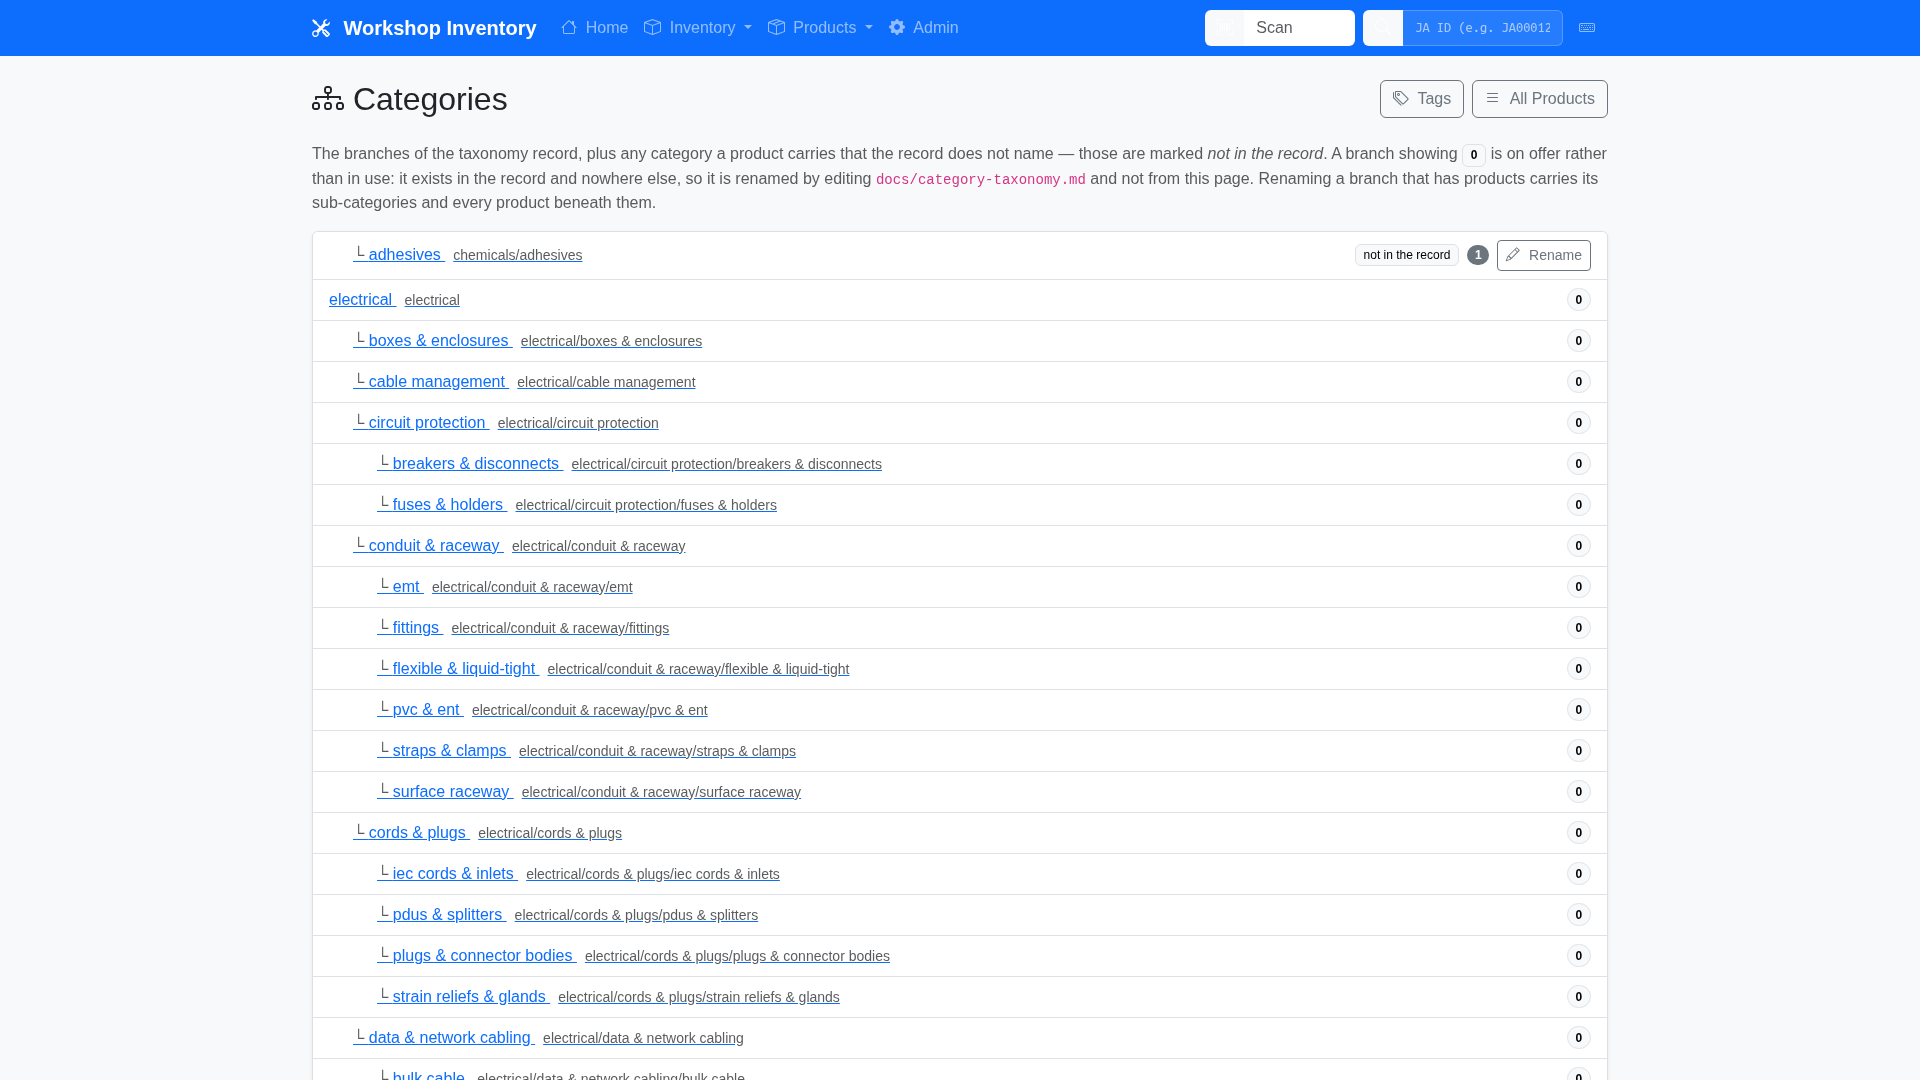
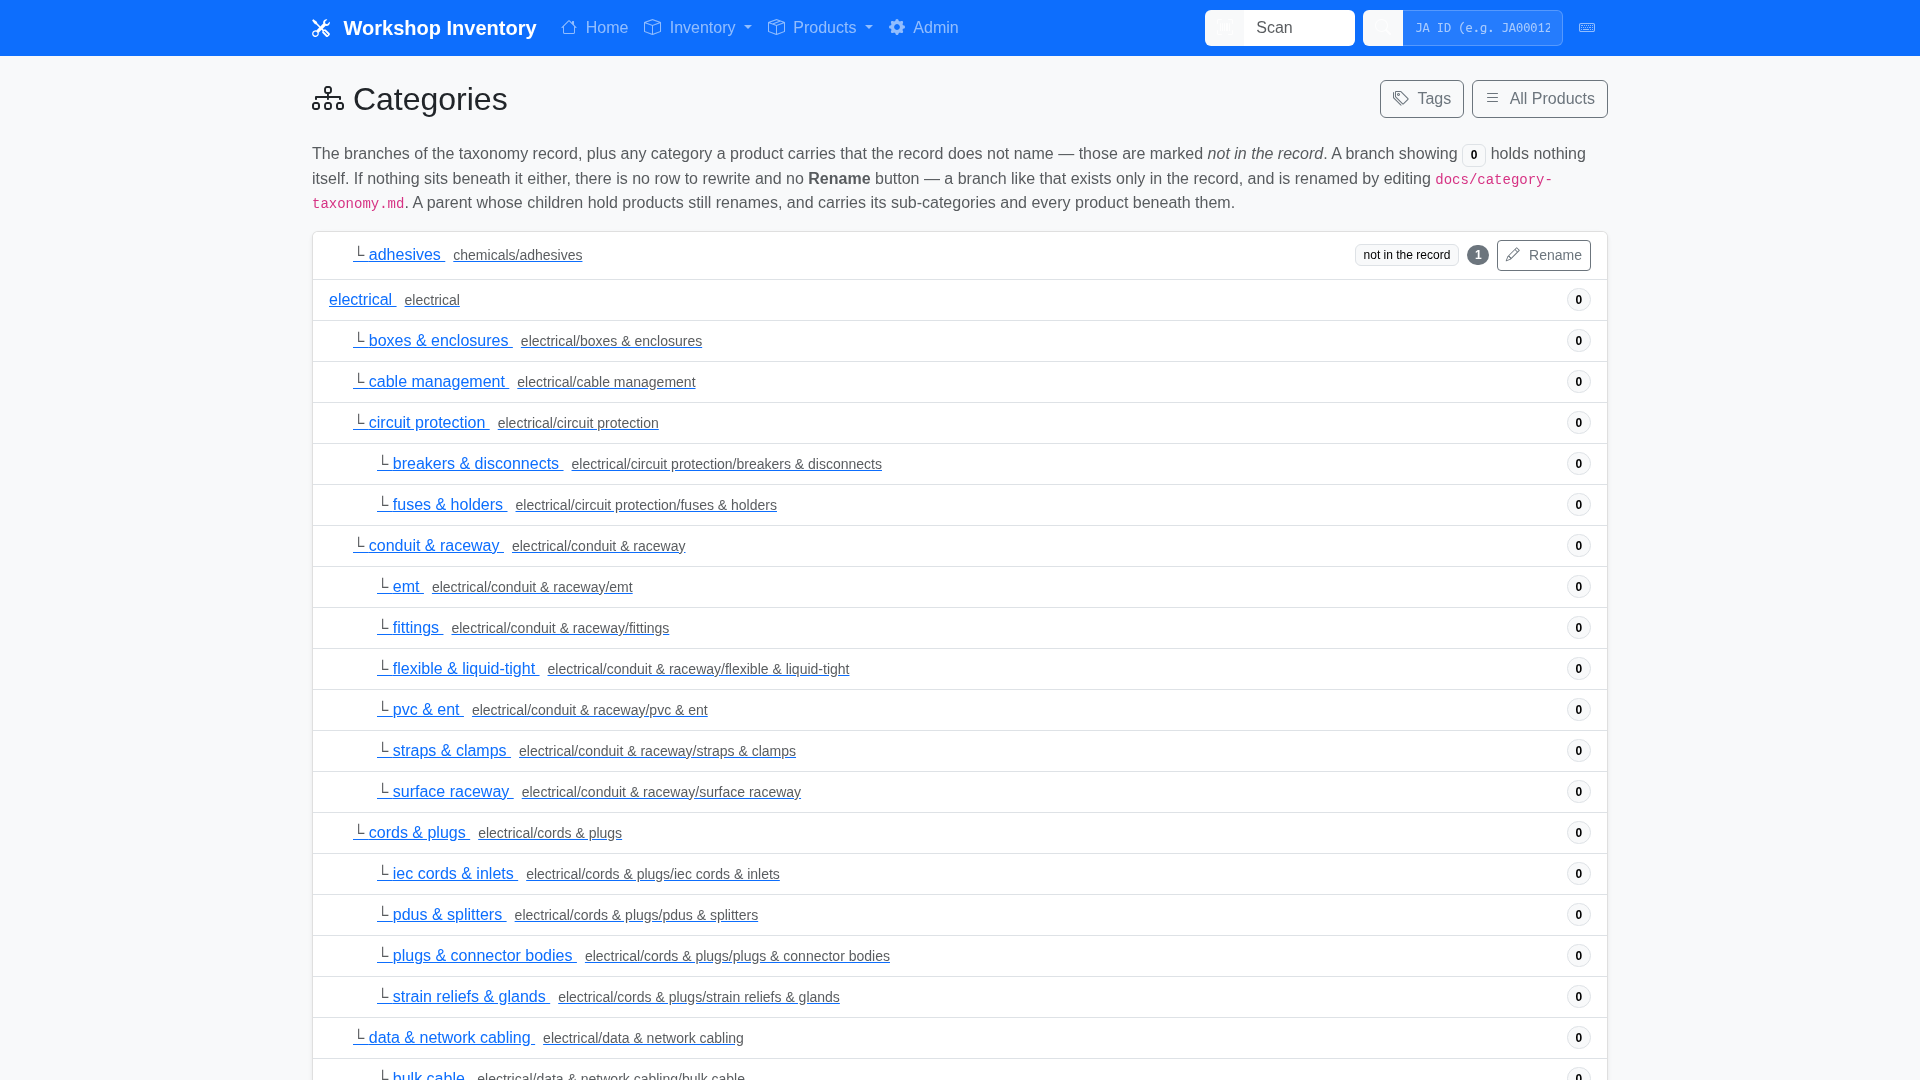
fix(catalog): gate the rename control on the subtree, not the direct count (#98)
Caught in review of #117, and worse than the last one: this removed a working
capability rather than merely mis-describing one.

category_tree's `count` is the number of products whose category_path equals
the row exactly. rename_category is not: it rewrites every product at or
under the path and refuses only when that whole set is empty. So a parent
holding nothing itself but with an occupied child renames perfectly well --
and gating the button on `count` hid it for exactly those rows.

That is the common case, not an edge. The taxonomy encourages filing at
third-level leaves, which leaves every parent above them at a direct count of
zero; 26 of the 142 shipped branches are parents with taxonomy children. One
product at electronics/dev boards/arduino made both `electronics` and
`electronics/dev boards` unrenameable through the UI.

category_tree now carries subtree_count alongside count, and the template
gates on that. The wrong rule had been written down in three more places --
the category_tree docstring, the prose on the page itself, and the user
manual, where it directly contradicted the paragraph above it about renames
carrying everything beneath them. All corrected, along with the state table
in data-model.md, which now distinguishes a parent with occupied children
from a branch with nothing anywhere beneath it.

Both e2e regression tests were run against the old gate first and both fail
there. Five unit tests cover the split: the rename that works, the tree
[…]

Changed region(s): [[0.1562, 0.1222, 0.8438, 0.2139]]

diff --git a/app/templates/product/categories.html b/app/templates/product/categories.html
@@ -16,10 +16,11 @@
 <p class="text-muted">
     The branches of the taxonomy record, plus any category a product carries that the
     record does not name &mdash; those are marked <em>not in the record</em>. A branch
-    showing <span class="badge text-bg-light border">0</span> is on offer rather than in
-    use: it exists in the record and nowhere else, so it is renamed by editing
-    <code>docs/category-taxonomy.md</code> and not from this page. Renaming a branch that
-    has products carries its sub-categories and every product beneath them.
+    showing <span class="badge text-bg-light border">0</span> holds nothing itself. If
+    nothing sits beneath it either, there is no row to rewrite and no <strong>Rename</strong>
+    button &mdash; a branch like that exists only in the record, and is renamed by editing
+    <code>docs/category-taxonomy.md</code>. A parent whose children hold products still
+    renames, and carries its sub-categories and every product beneath them.
 </p>
 
 <div class="card">
@@ -41,9 +42,11 @@
                 </span>
                 {% endif %}
                 <span class="badge {{ 'text-bg-secondary' if category.count else 'text-bg-light border' }} rounded-pill">{{ category.count }}</span>
-                {# rename_category rewrites rows, and a branch nobody occupies has none:
-                   offering the control there would be an action that cannot succeed. #}
-                {% if category.count %}
+                {# Gated on the subtree, not the direct count. rename_category
+                   rewrites every product at or under the path, so a parent
+                   holding nothing itself still renames and carries its children.
+                   Only a branch with an empty subtree has nothing to rewrite. #}
+                {% if category.subtree_count %}
                 <button type="button" class="btn btn-sm btn-outline-secondary rename-btn"
                         data-rename-value="{{ category.path }}"
                         data-rename-count="{{ category.count }}"

diff --git a/tests/e2e/test_category_taxonomy.py b/tests/e2e/test_category_taxonomy.py
@@ -180,3 +180,62 @@ def test_the_dialog_still_warns_about_a_real_collision(page, live_server):
 
     expect(impact).to_contain_text("1 product")
     expect(warning).to_contain_text("already exists")
+
+
+@pytest.mark.e2e
+def test_the_rename_control_follows_the_subtree_not_the_direct_count(page, live_server):
+    """The parent of an occupied leaf holds nothing itself and still renames.
+
+    `rename_category` rewrites everything at or under the path, so hiding the
+    control here would remove a working capability -- and it is the common
+    case, because the taxonomy encourages filing at the leaves.
+    """
+    live_server.add_test_products([
+        {'description': 'Arduino Uno R3', 'category_path': OCCUPIED},
+    ])
+
+    tree = open_categories(page, live_server.url)
+
+    for parent in ('electronics', 'electronics/dev boards'):
+        expect(row(tree, parent)).to_contain_text("0")
+        expect(row(tree, parent).locator(".rename-btn")).to_have_count(1)
+
+    # And a branch with nothing beneath it still has no control.
+    expect(row(tree, UNOCCUPIED).locator(".rename-btn")).to_have_count(0)
+
+
+@pytest.mark.e2e
+def test_renaming_a_parent_that_holds_nothing_directly_carries_its_child(
+    page, live_server
+):
+    """End to end: the control is offered and the rename actually works."""
+    live_server.add_test_products([
+        {'description': 'Arduino Uno R3', 'category_path': OCCUPIED},
+    ])
+
+    open_categories(page, live_server.url)
+    page.locator('.rename-btn[data-rename-value="electronics/dev boards"]').click()
+
+    impact = page.locator("#rename-impact")
+    expect(impact).to_be_visible()
+    expect(impact).to_contain_text("1 product")
+
+    page.locator("#rename-new-value").fill("electronics/sbc")
+    page.locator("#rename-submit").click()
+
+    tree = page.locator("#category-tree")
+
+    # The product moved, and its new home is outside the record -- which is
+    # what the mark is for.
+    moved = row(tree, "electronics/sbc/arduino")
+    expect(moved).to_have_count(1)
+    expect(moved.locator(".untaxonomied")).to_have_count(1)
+    expect(moved.locator(".rename-btn")).to_have_count(1)
+
+    # The old path does NOT disappear: the taxonomy still names it, so it stays
+    # on offer, now unoccupied and with nothing to rename. This is the drift a
+    # rename creates between the record and what products carry, and the page
+    # showing both halves of it is the point.
+    vacated = row(tree, OCCUPIED)
+    expect(vacated).to_have_count(1)
+    expect(vacated.locator(".rename-btn")).to_have_count(0)

diff --git a/tests/unit/test_product_search.py b/tests/unit/test_product_search.py
@@ -380,6 +380,45 @@ class TestCategoryListing:
         paths = {entry['path'] for entry in catalog.category_tree()}
         assert set(self.IN_USE) <= paths
 
+    def test_the_tree_carries_the_subtree_count_a_rename_would_move(self, service):
+        """025: `count` is this row's own; `subtree_count` is what renames.
+
+        The browse page gates its Rename control on the second, because the
+        first is 0 for a parent whose children hold everything -- and gating on
+        that hid the control for most of the parents the taxonomy adds.
+        """
+        service.create_product(
+            description='Uno', category_path='electronics/dev boards/arduino'
+        )
+
+        parent = self._entry(service, 'electronics/dev boards')
+        root = self._entry(service, 'electronics')
+        leaf = self._entry(service, 'electronics/dev boards/arduino')
+
+        assert (parent['count'], parent['subtree_count']) == (0, 1)
+        assert (root['count'], root['subtree_count']) == (0, 1)
+        assert (leaf['count'], leaf['subtree_count']) == (1, 1)
+
+    def test_an_empty_branch_has_an_empty_subtree(self, service):
+        """Nothing anywhere beneath it: no row to rewrite, no rename."""
+        entry = self._entry(service, 'fasteners/rivets')
+
+        assert (entry['count'], entry['subtree_count']) == (0, 0)
+
+    def test_the_subtree_count_respects_the_separator_boundary(self, service):
+        """`electronics-surplus` is a different category, not a descendant."""
+        service.create_product(description='x', category_path='electronics-surplus')
+
+        assert self._entry(service, 'electronics')['subtree_count'] == 0
+
+    def test_the_subtree_count_includes_paths_the_taxonomy_does_not_name(self, service):
+        """A typed child still makes its parent renameable."""
+        service.create_product(
+            description='x', category_path='electronics/dev boards/homebrew'
+        )
+
+        assert self._entry(service, 'electronics/dev boards')['subtree_count'] == 1
+
     @staticmethod
     def _entry(catalog, path):
         return next(e for e in catalog.category_tree() if e['path'] == path)

diff --git a/app/catalog_service.py b/app/catalog_service.py
@@ -2715,16 +2715,21 @@ class CatalogService:
         (025 FR-015), and the only thing that makes that divergence visible
         (025 FR-019).
 
-        A caller rendering a rename control must gate it on ``count``:
-        ``rename_category`` refuses a category no product carries, because a
-        rename is a rewrite across rows and there are none.
+        ``subtree_count`` is what a caller must gate a rename control on, and
+        it is deliberately not ``count``. ``rename_category`` rewrites every
+        product at *or under* the path and refuses only when that whole set is
+        empty -- so a parent branch holding nothing directly, with an occupied
+        child, renames perfectly well and carries the child with it. Gating on
+        ``count`` would hide the control for most of the parents a taxonomy
+        adds, because filing happens at the leaves.
 
         Args:
             None.
 
         Returns:
             One entry per category path: its path, its depth, its name, its
-            direct product count, and whether the taxonomy names it.
+            direct product count, the count at or under it, and whether the
+            taxonomy names it.
         """
         with self._session() as session:
             rows = session.query(
@@ -2736,12 +2741,20 @@ class CatalogService:
         counts = {path: count for path, count in rows}
         taxonomy = set(catalog_taxonomy.category_paths())
 
+        def subtree_total(path: str) -> int:
+            """Products at or under ``path`` -- the set a rename would move."""
+            return sum(
+                occupants for occupied, occupants in counts.items()
+                if category_utils.is_descendant(occupied, path)
+            )
+
         return [
             {
                 'path': path,
                 'depth': len(category_utils.segments(path)),
                 'name': category_utils.segments(path)[-1],
                 'count': counts.get(path, 0),
+                'subtree_count': subtree_total(path),
                 'in_taxonomy': path in taxonomy,
             }
             for path in sorted(set(counts) | taxonomy)

diff --git a/tests/unit/test_catalog_service.py b/tests/unit/test_catalog_service.py
@@ -428,6 +428,23 @@ class TestRenameCategoryRefusals:
         assert 'no category' in str(excinfo.value.message).lower()
         assert _paths(tree) == self._unchanged(tree)
 
+    def test_a_parent_holding_nothing_directly_still_renames(self, service):
+        """025: the case the browse page's gate originally got wrong.
+
+        ``rename_category`` rewrites every product at or under the path and
+        refuses only when that whole set is empty. A parent with an occupied
+        child holds nothing itself and renames perfectly well -- which is most
+        of the parents a taxonomy adds, because filing happens at the leaves.
+        """
+        service.create_product(
+            description='Uno', category_path='electronics/dev boards/arduino'
+        )
+
+        report = service.rename_category('electronics/dev boards', 'electronics/sbc')
+
+        assert report['products'] == 1
+        assert _paths(service) == {'Uno': 'electronics/sbc/arduino'}
+
     def test_blank_source_is_refused(self, tree):
         with pytest.raises(ValidationError) as excinfo:
             tree.rename_category('  ', 'electronics')

diff --git a/specs/025-category-taxonomy/data-model.md b/specs/025-category-taxonomy/data-model.md
@@ -63,16 +63,23 @@ field:
 | `depth` | `int` | Number of segments, 1–3. | — |
 | `name` | `str` | Last segment. | — |
 | `count` | `int` | Products filed **directly** in this path. | Now `0` for a branch on offer that nobody occupies. Previously an entry could not exist with a count of 0. |
-| `in_taxonomy` | `bool` | Whether `path` is in `CATEGORY_PATHS`. | **New.** |
+| `subtree_count` | `int` | Products at **or under** this path — the set a rename would move. | **New.** |
+| `in_taxonomy` | `bool` | Whether `path` is in the deployment's vocabulary. | **New.** |
 
-The four states an entry can be in, and what each means:
+The states an entry can be in, and what each means:
 
-| `in_taxonomy` | `count` | Meaning |
-|---|---|---|
-| `true` | `> 0` | A branch of the record, in use. The ordinary case. |
-| `true` | `0` | A branch of the record, on offer, nothing filed there yet. Renamed by editing the record, not through the UI — `rename_category` refuses when no product carries the path. |
-| `false` | `> 0` | A path somebody typed that the record does not name. Legitimate (FR-015), and the visible signal for the drift FR-019 is about. |
-| `false` | `0` | Cannot occur. An entry exists because the record names it or a product carries it. |
+| `in_taxonomy` | `count` | `subtree_count` | Meaning |
+|---|---|---|---|
+| `true` | `> 0` | `> 0` | A branch of the record, in use. The ordinary case. |
+| `true` | `0` | `> 0` | A parent of the record holding nothing itself, with occupied children. **Renames normally** and carries them. Common, because filing happens at the leaves. |
+| `true` | `0` | `0` | A branch of the record with nothing anywhere beneath it. No row to rewrite, so it is renamed by editing the record rather than through the UI. |
+| `false` | `> 0` | `> 0` | A path somebody typed that the record does not name. Legitimate (FR-015), and the visible signal for the drift FR-019 is about. |
+| `false` | `0` | `> 0` | A parent implied by a typed descendant — only when the record names it, otherwise no entry exists for it at all. |
+| `false` | `0` | `0` | Cannot occur. An entry exists because the vocabulary names it or a product carries it. |
+
+**A rename control must be gated on `subtree_count`, never on `count`.** `rename_category`
+rewrites every product at or under the path and refuses only when that whole set is empty, so
+gating on the direct count hides the control for most of the parents a taxonomy adds.
 
 ## Unchanged shapes
 

diff --git a/docs/user-manual.md b/docs/user-manual.md
@@ -1325,10 +1325,14 @@ taxonomy is one workshop's and a deployment can replace it with its own -- see t
 [deployment guide](deployment-guide.md#1-environment-variables) -- so the branches
 you see may not be the ones documented there.
 
-A branch showing a count of **0** is on offer rather than in use. It exists in
-the taxonomy record and nowhere else -- there is no row behind it -- so it is
-renamed by editing `docs/category-taxonomy.md`, not from this page, and that is
-why those rows carry no **Rename** button. A row marked *not in the record* is
+A branch showing a count of **0** holds nothing *directly*. It may still have
+products further down: the count on each row is that row's own, so a parent
+whose children hold everything reads 0 and is entirely normal.
+
+A branch with nothing beneath it either carries no **Rename** button. There is no
+row anywhere to rewrite, so such a branch exists only in the taxonomy record and
+is renamed by editing `docs/category-taxonomy.md`. A parent with occupied
+children keeps its button and renames like any other. A row marked *not in the record* is
 one somebody typed on a product; it is perfectly legitimate, and the mark is
 there so the divergence between the record and what your products actually carry
 is visible rather than silent.
